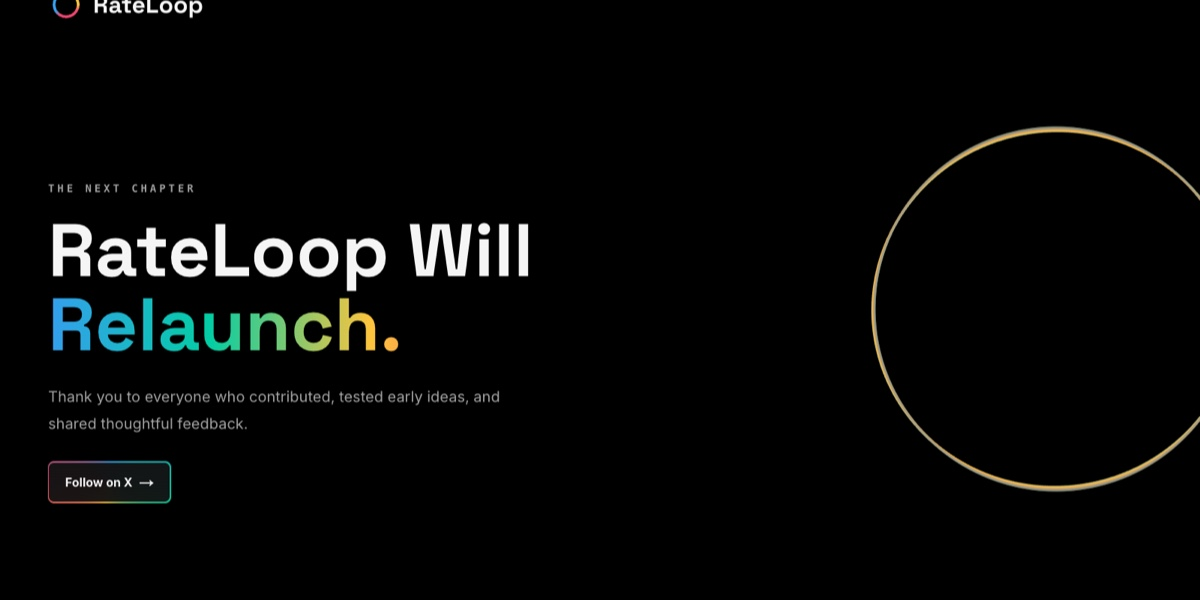
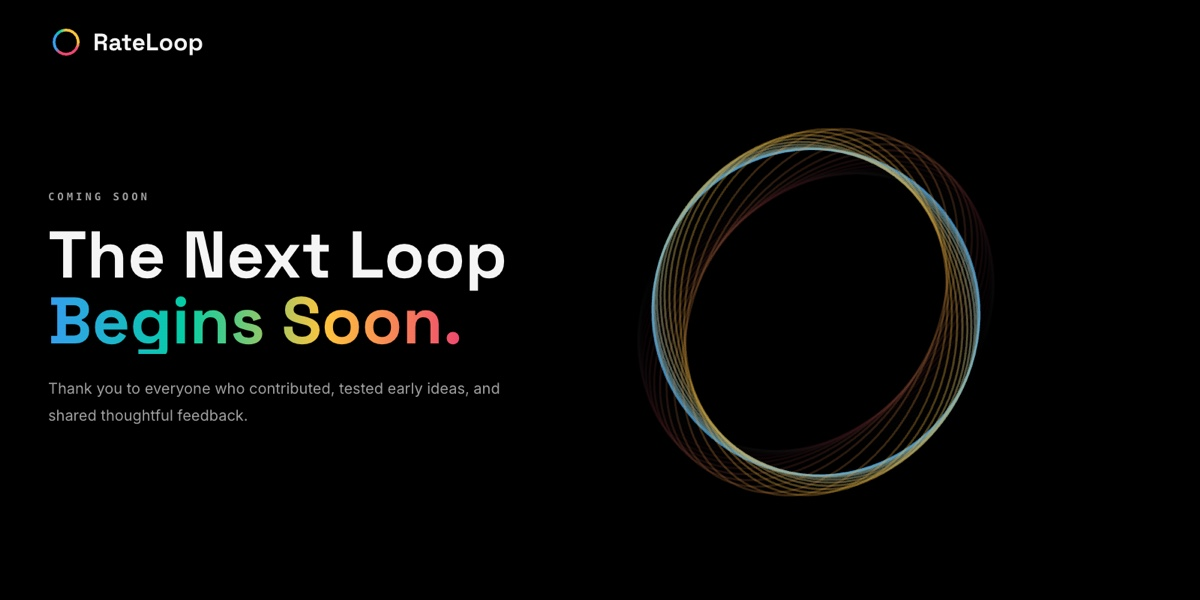
fix(web): introduce the next loop message

diff --git a/packages/nextjs/utils/scaffold-eth/getMetadata.test.ts b/packages/nextjs/utils/scaffold-eth/getMetadata.test.ts
@@ -3,7 +3,7 @@ import { spawnSync } from "node:child_process";
 import test from "node:test";
 
 const socialImageAlt =
-  "RateLoop social image with the RateLoop wordmark, the message RateLoop Will Relaunch, and the orbital loop mark";
+  "RateLoop social image with the RateLoop wordmark, the message The Next Loop Begins Soon, and the orbital loop mark";
 
 type MetadataSnapshot = {
   description?: string | null;
@@ -164,8 +164,8 @@ test("getMetadata uses localhost URLs and the updated brand copy when no product
   });
   assert.equal(metadata.description, "AI Asks, Humans Earn");
   assert.equal(metadata.openGraph?.description, "AI Asks, Humans Earn");
-  assert.equal(metadata.openGraph?.images?.[0]?.url, "http://localhost:4321/og-image.jpg?v=20260730a");
-  assert.equal(metadata.twitter?.images?.[0]?.url, "http://localhost:4321/twitter-image.jpg?v=20260730a");
+  assert.equal(metadata.openGraph?.images?.[0]?.url, "http://localhost:4321/og-image.jpg?v=20260730b");
+  assert.equal(metadata.twitter?.images?.[0]?.url, "http://localhost:4321/twitter-image.jpg?v=20260730b");
   assert.equal(metadata.openGraph?.images?.[0]?.alt, socialImageAlt);
   assert.equal(metadata.twitter?.images?.[0]?.alt, socialImageAlt);
   assert.equal(metadata.icons?.icon?.[0]?.url, "/favicon.png");
@@ -192,8 +192,8 @@ test("getMetadata prefers the production hostname for social metadata", () => {
   );
 
   assert.equal(metadata.metadataBase, "https://rateloop.app/");
-  assert.equal(metadata.openGraph?.images?.[0]?.url, "https://rateloop.app/og-image.jpg?v=20260730a");
-  assert.equal(metadata.twitter?.images?.[0]?.url, "https://rateloop.app/twitter-image.jpg?v=20260730a");
+  assert.equal(metadata.openGraph?.images?.[0]?.url, "https://rateloop.app/og-image.jpg?v=20260730b");
+  assert.equal(metadata.twitter?.images?.[0]?.url, "https://rateloop.app/twitter-image.jpg?v=20260730b");
   assert.deepEqual(metadata.title, {
     default: "RateLoop — AI Asks, Humans Earn",
     template: "%s | RateLoop",
@@ -216,6 +216,6 @@ test("getMetadata uses the preview hostname when production metadata is unavaila
   );
 
   assert.equal(metadata.metadataBase, "https://rateloop-preview.vercel.app/");
-  assert.equal(metadata.openGraph?.images?.[0]?.url, "https://rateloop-preview.vercel.app/og-image.jpg?v=20260730a");
-  assert.equal(metadata.twitter?.images?.[0]?.url, "https://rateloop-preview.vercel.app/twitter-image.jpg?v=20260730a");
+  assert.equal(metadata.openGraph?.images?.[0]?.url, "https://rateloop-preview.vercel.app/og-image.jpg?v=20260730b");
+  assert.equal(metadata.twitter?.images?.[0]?.url, "https://rateloop-preview.vercel.app/twitter-image.jpg?v=20260730b");
 });

diff --git a/packages/nextjs/e2e/tests/responsive-layout.spec.ts b/packages/nextjs/e2e/tests/responsive-layout.spec.ts
@@ -75,7 +75,7 @@ async function expectRouteControls(page: Page, path: string, width: number): Pro
   }
 
   if (path === "/") {
-    const heroHeading = main.getByRole("heading", { name: "RateLoop Will Relaunch." });
+    const heroHeading = main.getByRole("heading", { name: "The Next Loop Begins Soon." });
     const followLink = main.getByRole("link", { name: "Follow on X" });
     await expect(heroHeading).toBeVisible({ timeout: 15_000 });
     await expect(followLink).toBeVisible({ timeout: 15_000 });
@@ -84,7 +84,7 @@ async function expectRouteControls(page: Page, path: string, width: number): Pro
     await expect(page.locator("aside")).toHaveCount(0);
 
     if (width >= 1024) {
-      const orbBounds = await page.getByTestId("relaunch-orb").evaluate(element => {
+      const orbBounds = await page.getByTestId("coming-soon-orb").evaluate(element => {
         const lineBoxes = Array.from(element.querySelectorAll(".ell"), line => line.getBoundingClientRect());
 
         return {
@@ -185,12 +185,12 @@ test.describe("Responsive layout", () => {
     });
   }
 
-  test("relaunch orb stays fully visible in a short desktop viewport", async ({ connectedPage: page }) => {
+  test("coming-soon orb stays fully visible in a short desktop viewport", async ({ connectedPage: page }) => {
     await page.setViewportSize({ width: 1247, height: 632 });
     await gotoWithRetry(page, "/", { skipInjectedWalletConnectionCheck: true, timeout: 45_000 });
     await expectNoNextErrorOverlay(page);
     await expectRouteControls(page, "/", 1247);
-    await expectNoHorizontalOverflow(page, "relaunch page at 1247x632");
+    await expectNoHorizontalOverflow(page, "coming-soon page at 1247x632");
   });
 
   test("stake selector dialog fits inside a phone viewport", async ({ connectedPage: page }) => {

diff --git a/packages/nextjs/e2e/tests/smoke.spec.ts b/packages/nextjs/e2e/tests/smoke.spec.ts
@@ -14,8 +14,8 @@ import { expect, test } from "@playwright/test";
 test.describe("Smoke tests", () => {
   test("landing page loads without wallet", async ({ page }) => {
     await page.goto("/");
-    await expect(page).toHaveTitle("RateLoop — Relaunching");
-    await expect(page.getByRole("heading", { name: "RateLoop Will Relaunch." })).toBeVisible();
+    await expect(page).toHaveTitle("RateLoop — The Next Loop Begins Soon");
+    await expect(page.getByRole("heading", { name: "The Next Loop Begins Soon." })).toBeVisible();
     await expect(page.getByRole("link", { name: "Follow on X" })).toHaveAttribute("href", "https://x.com/RateLoop");
   });
 
@@ -45,7 +45,7 @@ test.describe("Smoke tests", () => {
     await expect(getVisibleAuthConnectButton(page)).toHaveCount(0);
   });
 
-  test("brand link opens the relaunch page for connected users", async ({ page }) => {
+  test("brand link opens the coming-soon page for connected users", async ({ page }) => {
     test.setTimeout(120_000);
 
     await setupWallet(page, ANVIL_ACCOUNTS.account2.privateKey);
@@ -57,7 +57,7 @@ test.describe("Smoke tests", () => {
     await expect(brandLink).toBeVisible({ timeout: 10_000 });
     await brandLink.evaluate((link: HTMLAnchorElement) => link.click());
     await expect.poll(() => page.url(), { timeout: 60_000 }).toMatch(/\/(?:\?landing=1)?$/);
-    await expect(page.getByRole("heading", { name: "RateLoop Will Relaunch." })).toBeVisible({
+    await expect(page.getByRole("heading", { name: "The Next Loop Begins Soon." })).toBeVisible({
       timeout: 60_000,
     });
   });

diff --git a/packages/nextjs/app/(coming-soon)/page.tsx b/packages/nextjs/app/(coming-soon)/page.tsx
@@ -22,12 +22,12 @@ export default function ComingSoonPage() {
         <section className="relative mx-auto flex w-full max-w-[92rem] flex-col items-center lg:block">
           <div className="relative z-10 flex w-full flex-col items-center text-center lg:w-[56%] lg:items-start lg:text-left">
             <p className="mb-6 font-mono text-xs font-semibold uppercase tracking-[0.28em] text-base-content/65 sm:text-sm">
-              The Next Chapter
+              Coming Soon
             </p>
 
             <h1 className="hero-headline text-[2.7rem] leading-[0.94] text-base-content min-[375px]:text-[3.2rem] sm:text-[4.8rem] lg:text-[clamp(4.5rem,11vh,6.8rem)]">
-              <span className="block">RateLoop Will</span>{" "}
-              <span className="rateloop-text-gradient block w-fit">Relaunch.</span>
+              <span className="block">The Next Loop</span>{" "}
+              <span className="rateloop-text-gradient block w-fit">Begins Soon.</span>
             </h1>
 
             <p className="mt-7 max-w-[38rem] text-[1.05rem] leading-8 text-base-content/65 sm:text-xl sm:leading-9">
@@ -49,7 +49,7 @@ export default function ComingSoonPage() {
 
           <div
             aria-hidden="true"
-            data-testid="relaunch-orb"
+            data-testid="coming-soon-orb"
             className="relative z-0 -mx-[28vw] -mb-[24vw] mt-2 w-[156vw] sm:-mx-[18vw] sm:-mb-[18vw] sm:w-[118vw] lg:absolute lg:-right-12 lg:top-1/2 lg:m-0 lg:w-[clamp(40rem,62vw,70rem)] lg:-translate-y-1/2"
           >
             <OrbAnimation />

diff --git a/packages/nextjs/app/(coming-soon)/page.test.ts b/packages/nextjs/app/(coming-soon)/page.test.ts
@@ -4,10 +4,10 @@ import test from "node:test";
 
 const pageSource = readFileSync(new URL("./page.tsx", import.meta.url), "utf8");
 
-test("the root page presents only the relaunch message and follow action", () => {
-  assert.match(pageSource, /The Next Chapter/);
-  assert.match(pageSource, /RateLoop Will/);
-  assert.match(pageSource, /Relaunch\./);
+test("the root page presents only the coming-soon message and follow action", () => {
+  assert.match(pageSource, /Coming Soon/);
+  assert.match(pageSource, /The Next Loop/);
+  assert.match(pageSource, /Begins Soon\./);
   assert.match(
     pageSource,
     /Thank you to everyone who contributed, tested early ideas, and shared thoughtful feedback\./,
@@ -20,6 +20,6 @@ test("the root page presents only the relaunch message and follow action", () =>
   assert.doesNotMatch(pageSource, /PublicShell|LandingNav|Wallet|promo-video|BetaNoticeBanner/);
 });
 
-test("the former public-shell homepage cannot shadow the relaunch route", () => {
+test("the former public-shell homepage cannot shadow the coming-soon route", () => {
   assert.equal(existsSync(new URL("../(public)/page.tsx", import.meta.url)), false);
 });

diff --git a/packages/nextjs/e2e/tests/pages-smoke.spec.ts b/packages/nextjs/e2e/tests/pages-smoke.spec.ts
@@ -10,8 +10,10 @@ test.describe("Page smoke tests", () => {
 
   test("landing page loads", async ({ page }) => {
     await gotoPath(page, "/");
-    await expect(page).toHaveTitle("RateLoop — Relaunching");
-    await expect(page.getByRole("heading", { name: "RateLoop Will Relaunch." })).toBeVisible({ timeout: 15_000 });
+    await expect(page).toHaveTitle("RateLoop — The Next Loop Begins Soon");
+    await expect(page.getByRole("heading", { name: "The Next Loop Begins Soon." })).toBeVisible({
+      timeout: 15_000,
+    });
     await expect(
       page.getByText("Thank you to everyone who contributed, tested early ideas, and shared thoughtful feedback."),
     ).toBeVisible();

diff --git a/packages/nextjs/utils/scaffold-eth/getMetadata.ts b/packages/nextjs/utils/scaffold-eth/getMetadata.ts
@@ -32,9 +32,9 @@ function resolveMetadataBaseUrl() {
 }
 
 const titleTemplate = "%s | RateLoop";
-const socialImageVersion = "20260730a";
+const socialImageVersion = "20260730b";
 const socialImageAlt =
-  "RateLoop social image with the RateLoop wordmark, the message RateLoop Will Relaunch, and the orbital loop mark";
+  "RateLoop social image with the RateLoop wordmark, the message The Next Loop Begins Soon, and the orbital loop mark";
 
 export const getMetadata = ({ title, description }: { title: string; description: string }): Metadata => {
   const baseUrl = resolveMetadataBaseUrl();

diff --git a/packages/nextjs/app/layout.tsx b/packages/nextjs/app/layout.tsx
@@ -6,9 +6,9 @@ import "~~/styles/globals.css";
 import { getMetadata } from "~~/utils/scaffold-eth/getMetadata";
 
 export const metadata = getMetadata({
-  title: "RateLoop — Relaunching",
+  title: "RateLoop — The Next Loop Begins Soon",
   description:
-    "RateLoop will relaunch. Thank you to everyone who contributed, tested early ideas, and shared thoughtful feedback.",
+    "The next loop begins soon. Thank you to everyone who contributed, tested early ideas, and shared thoughtful feedback.",
 });
 
 const isProduction = process.env.NODE_ENV === "production";

diff --git a/packages/nextjs/e2e/tests/accessibility-axe.spec.ts b/packages/nextjs/e2e/tests/accessibility-axe.spec.ts
@@ -4,7 +4,7 @@ import { openAdvancedQuestionSettings } from "../helpers/ask-form";
 import { expectNoNextErrorOverlay } from "../helpers/layout";
 
 const PUBLIC_PAGES = [
-  { path: "/", heading: /RateLoop Will Relaunch\./i },
+  { path: "/", heading: /The Next Loop Begins Soon\./i },
   { path: "/docs", heading: /RateLoop\s+Introduction|Introduction/i },
   { path: "/legal", heading: /^Legal$/i },
   { path: "/legal/terms", heading: /Terms of Service/i },

diff --git a/packages/nextjs/e2e/tests/browser-compat.spec.ts b/packages/nextjs/e2e/tests/browser-compat.spec.ts
@@ -9,7 +9,7 @@ import {
 } from "../helpers/wait-helpers";
 
 const PUBLIC_ROUTES = [
-  { path: "/", content: /RateLoop Will Relaunch\./i },
+  { path: "/", content: /The Next Loop Begins Soon\./i },
   { path: "/docs", content: /Introduction/i },
   { path: "/legal", content: /^Legal$/i },
   { path: "/legal/terms", content: /Terms of Service/i },
